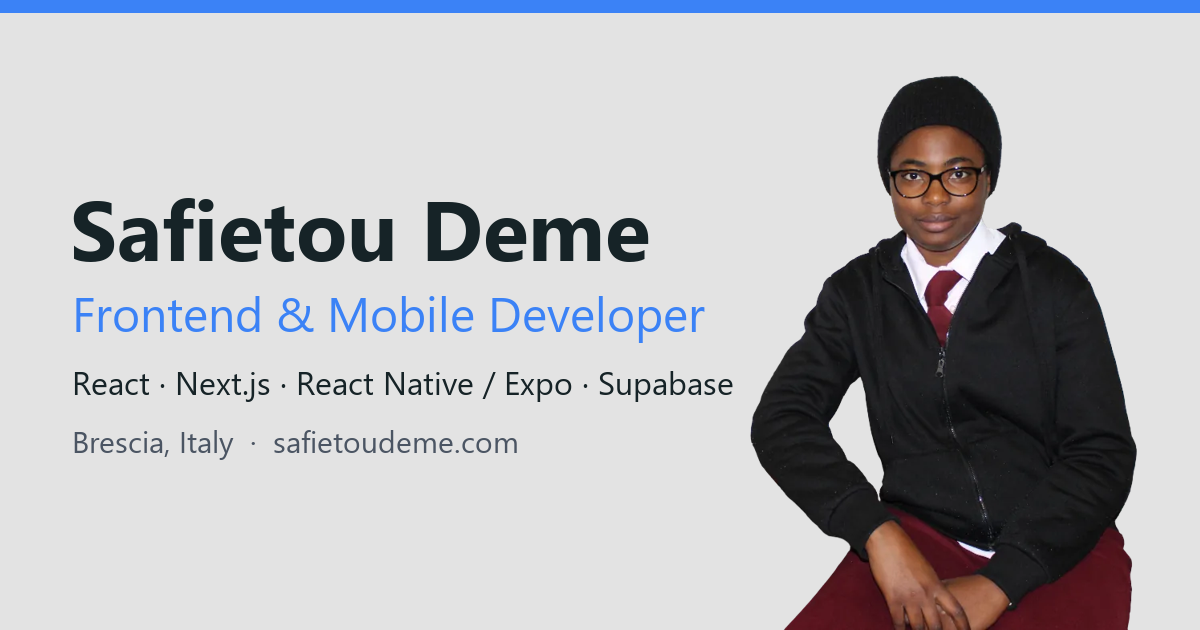
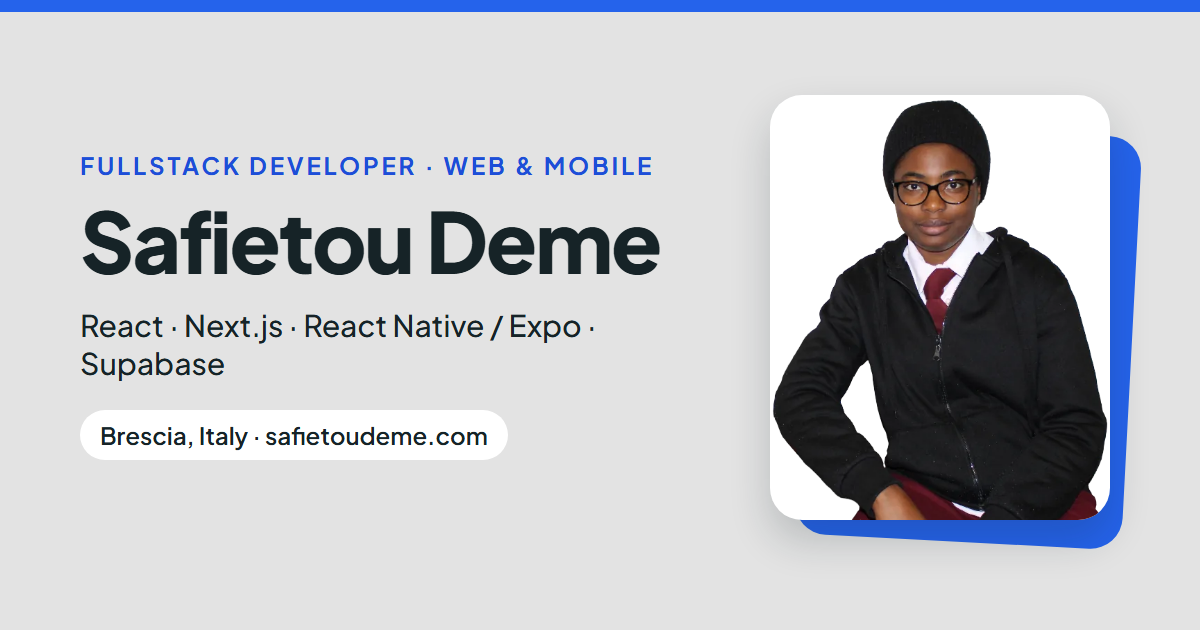
Position as fullstack developer in meta tags, OG image and README
Title, description, Open Graph/Twitter tags and README now say
fullstack developer (web and mobile). The Open Graph image is redrawn
in the new design (Plus Jakarta Sans, framed photo).

Changed region(s): [[0.0617, 0.1206, 0.9558, 1.0], [0.0, 0.0, 1.0, 0.0302]]

diff --git a/index.html b/index.html
@@ -3,10 +3,10 @@
   <head>
     <meta charset="UTF-8" />
     <meta name="viewport" content="width=device-width, initial-scale=1.0" />
-    <title>Safietou Deme · Frontend &amp; Mobile Developer</title>
-    <meta name="description" content="Portfolio of Safietou Deme, a frontend and mobile developer in Brescia, Italy, building with React, Next.js, React Native / Expo and Supabase." />
+    <title>Safietou Deme · Fullstack Developer</title>
+    <meta name="description" content="Portfolio of Safietou Deme, a fullstack developer in Brescia, Italy, building web and mobile products with React, Next.js, React Native / Expo and Supabase." />
     <link rel="canonical" href="https://safietoudeme.com/" />
-    <meta name="theme-color" content="#3b82f6" />
+    <meta name="theme-color" content="#2563eb" />
 
     <link rel="icon" href="/favicon.ico" sizes="48x48" />
     <link rel="icon" type="image/svg+xml" href="/favicon.svg" />
@@ -14,20 +14,20 @@
 
     <meta property="og:type" content="website" />
     <meta property="og:url" content="https://safietoudeme.com/" />
-    <meta property="og:title" content="Safietou Deme · Frontend & Mobile Developer" />
-    <meta property="og:description" content="React, Next.js, React Native / Expo and Supabase. Computer Science Engineering student at the University of Brescia." />
+    <meta property="og:title" content="Safietou Deme · Fullstack Developer" />
+    <meta property="og:description" content="Web and mobile products with React, Next.js, React Native / Expo and Supabase. Computer Science Engineering student at the University of Brescia." />
     <meta property="og:image" content="https://safietoudeme.com/og-image.png" />
     <meta property="og:image:width" content="1200" />
     <meta property="og:image:height" content="630" />
-    <meta property="og:image:alt" content="Safietou Deme, Frontend & Mobile Developer, Brescia, Italy" />
+    <meta property="og:image:alt" content="Safietou Deme, Fullstack Developer, Brescia, Italy" />
     <meta property="og:locale" content="en_GB" />
     <meta property="og:locale:alternate" content="it_IT" />
 
     <meta name="twitter:card" content="summary_large_image" />
-    <meta name="twitter:title" content="Safietou Deme · Frontend & Mobile Developer" />
-    <meta name="twitter:description" content="React, Next.js, React Native / Expo and Supabase. Computer Science Engineering student at the University of Brescia." />
+    <meta name="twitter:title" content="Safietou Deme · Fullstack Developer" />
+    <meta name="twitter:description" content="Web and mobile products with React, Next.js, React Native / Expo and Supabase. Computer Science Engineering student at the University of Brescia." />
     <meta name="twitter:image" content="https://safietoudeme.com/og-image.png" />
-    <meta name="twitter:image:alt" content="Safietou Deme, Frontend & Mobile Developer, Brescia, Italy" />
+    <meta name="twitter:image:alt" content="Safietou Deme, Fullstack Developer, Brescia, Italy" />
     <script>
       // Apply the saved/system theme before first paint to avoid a light-mode flash.
       // Mirrors getInitialTheme() in src/lib/theme.ts.

diff --git a/README.md b/README.md
@@ -2,7 +2,7 @@
 
 Source of my personal portfolio: **https://safietoudeme.com**
 
-A single-page site presenting my frontend and mobile work (React, Next.js, React Native / Expo, Supabase), my experience and how to reach me. It is available in English and Italian, with light and dark themes.
+A single-page site presenting my work as a fullstack developer, on the web and on mobile (React, Next.js, React Native / Expo, Supabase), my experience and how to reach me. It is available in English and Italian, with light and dark themes.
 
 ## Stack
 
